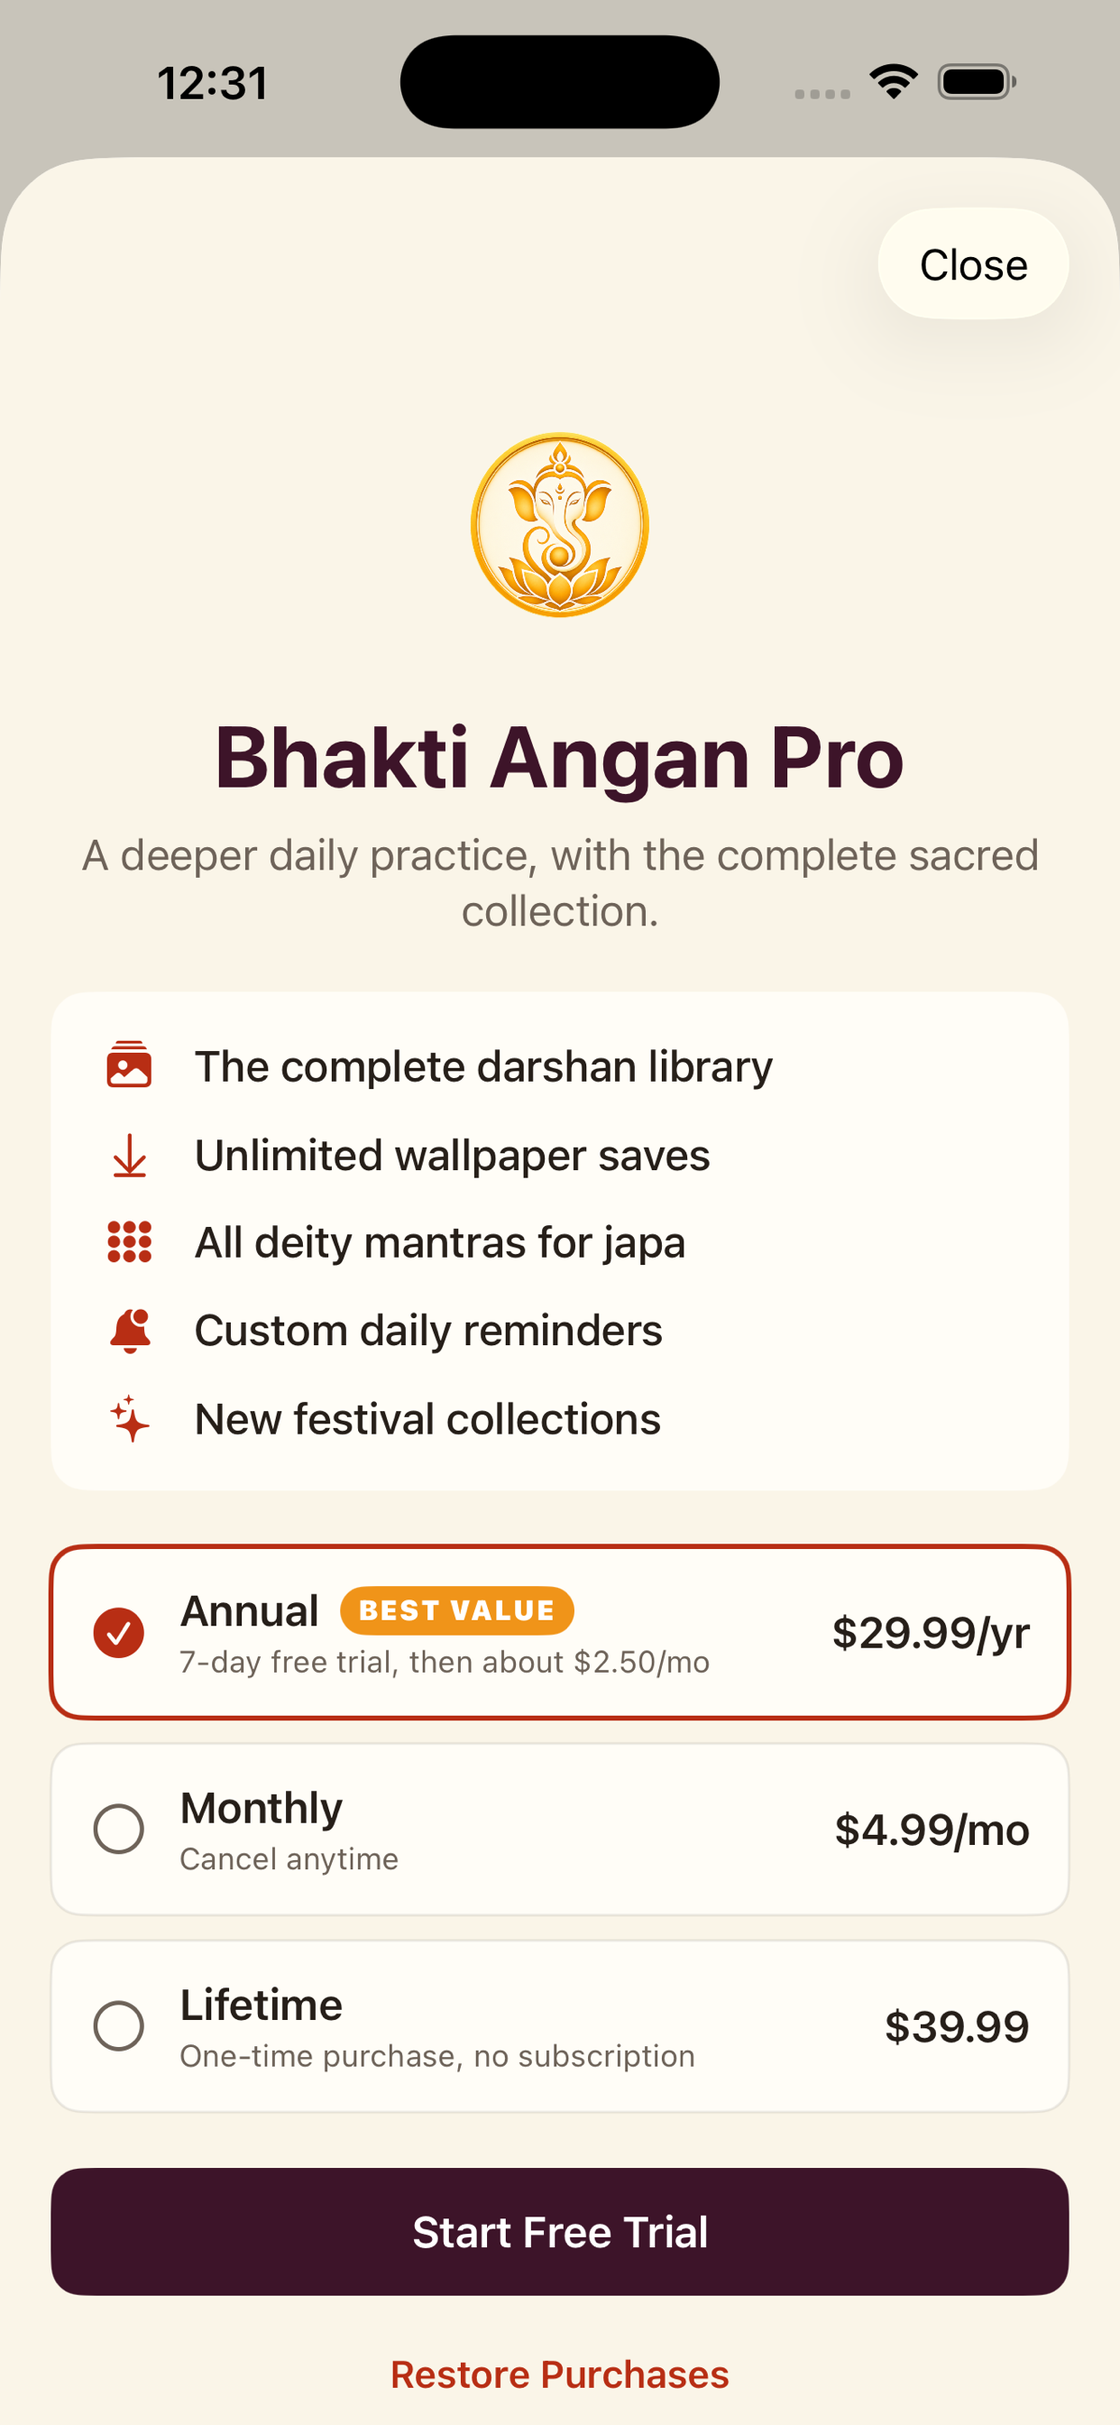
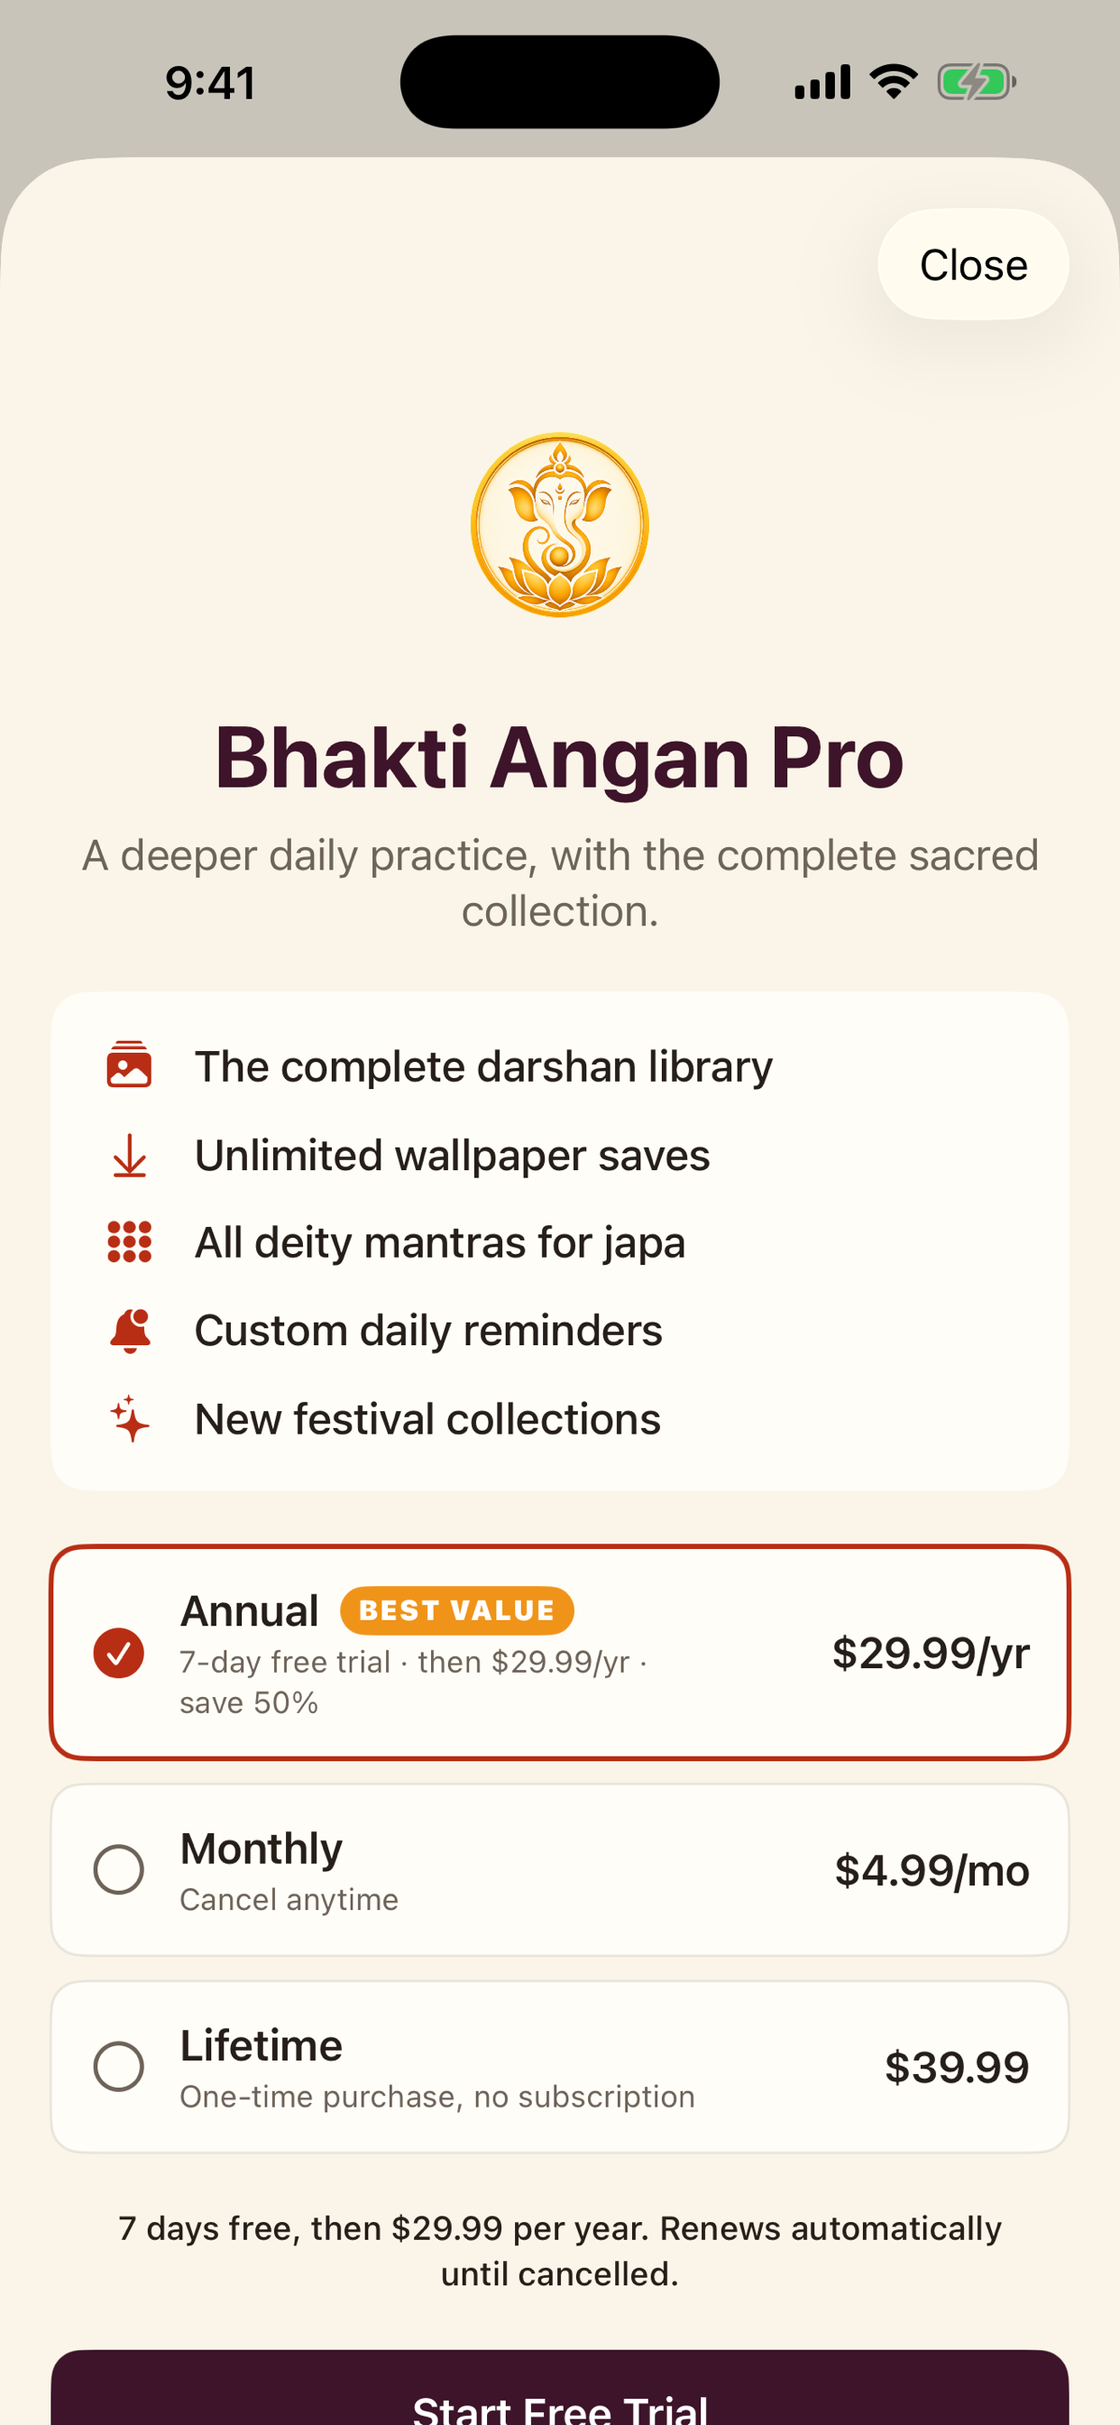
Bhakti Angan v1.0 (build 2): App Store release state
- Paywall: 3.1.2(c) fix - trial length + exact renewal price + auto-renew
  terms shown per selected plan (live StoreKit price, localized)
- New app icon: flame-centered mandala (website brand icon)
- Regenerated paywall screenshots (6.9" + 6.5"); paywall removed from
  listing set, used only as IAP review screenshot
- Docs: RELEASE_v1.1_PLAN.md (v1.1 checklist), runbook screenshot guidance

Approved by App Review 2026-07-02; live at
https://apps.apple.com/app/id6782816559

diff --git a/iPhone/BhaktiAngan/BhaktiAngan/Features/Subscription/PaywallView.swift b/iPhone/BhaktiAngan/BhaktiAngan/Features/Subscription/PaywallView.swift
@@ -41,6 +41,8 @@ struct PaywallView: View {
 
                     productOptions
 
+                    trialTerms
+
                     purchaseButton
 
                     Button(loc.s("Restore Purchases", "खरीद पुनर्स्थापित करें")) {
@@ -127,6 +129,71 @@ struct PaywallView: View {
         .disabled(store.isLoading)
     }
 
+    /// Prominent, plain-language terms shown at the point of purchase for the selected plan:
+    /// trial length (if any), the exact amount billed afterward, and that it auto-renews.
+    /// Required by App Store Guideline 3.1.2(c).
+    private var trialTerms: some View {
+        Text(selectedTermsText)
+            .font(.footnote.weight(.medium))
+            .multilineTextAlignment(.center)
+            .foregroundStyle(AppTheme.ink)
+            .frame(maxWidth: .infinity)
+            .padding(.horizontal, 4)
+    }
+
+    private var selectedTermsText: String {
+        // Prefer the live product so the real storefront price/currency is shown.
+        if let p = selectedProduct {
+            switch p.id {
+            case StoreManager.lifetimeID:
+                return loc.s(
+                    "One-time purchase of \(p.displayPrice). No subscription, no auto-renewal.",
+                    "\(p.displayPrice) की एकमुश्त खरीद। कोई सदस्यता या स्वतः नवीनीकरण नहीं।"
+                )
+            case StoreManager.monthlyID:
+                if let days = store.freeTrialDays(for: p) {
+                    return loc.s(
+                        "\(days) days free, then \(p.displayPrice) per month. Renews automatically until cancelled.",
+                        "\(days) दिन निःशुल्क, फिर \(p.displayPrice) प्रति माह। रद्द करने तक स्वतः नवीनीकृत।"
+                    )
+                }
+                return loc.s(
+                    "\(p.displayPrice) per month. Renews automatically until cancelled.",
+                    "\(p.displayPrice) प्रति माह। रद्द करने तक स्वतः नवीनीकृत।"
+                )
+            default: // annual
+                if let days = store.freeTrialDays(for: p) {
+                    return loc.s(
+                        "\(days) days free, then \(p.displayPrice) per year. Renews automatically until cancelled.",
+                        "\(days) दिन निःशुल्क, फिर \(p.displayPrice) प्रति वर्ष। रद्द करने तक स्वतः नवीनीकृत।"
+                    )
+                }
+                return loc.s(
+                    "\(p.displayPrice) per year. Renews automatically until cancelled.",
+                    "\(p.displayPrice) प्रति वर्ष। रद्द करने तक स्वतः नवीनीकृत।"
+                )
+            }
+        }
+        // Fallback copy when StoreKit products haven't loaded (matches the fallback prices).
+        switch selectedProductID {
+        case StoreManager.lifetimeID:
+            return loc.s(
+                "One-time purchase of $39.99. No subscription, no auto-renewal.",
+                "$39.99 की एकमुश्त खरीद। कोई सदस्यता या स्वतः नवीनीकरण नहीं।"
+            )
+        case StoreManager.monthlyID:
+            return loc.s(
+                "$4.99 per month. Renews automatically until cancelled.",
+                "$4.99 प्रति माह। रद्द करने तक स्वतः नवीनीकृत।"
+            )
+        default:
+            return loc.s(
+                "7 days free, then $29.99 per year. Renews automatically until cancelled.",
+                "7 दिन निःशुल्क, फिर $29.99 प्रति वर्ष। रद्द करने तक स्वतः नवीनीकृत।"
+            )
+        }
+    }
+
     // MARK: - Product options
 
     private var productOptions: some View {
@@ -136,7 +203,7 @@ struct PaywallView: View {
                     id: StoreManager.yearlyID,
                     title: loc.s("Annual", "वार्षिक"),
                     price: "$29.99/yr",
-                    detail: loc.s("7-day free trial, then about $2.50/mo", "7-दिन का निःशुल्क परीक्षण, फिर लगभग $2.50/माह"),
+                    detail: loc.s("7-day free trial, then $29.99/yr", "7-दिन का निःशुल्क परीक्षण, फिर $29.99/वर्ष"),
                     badge: loc.s("BEST VALUE", "सर्वोत्तम")
                 )
                 fallbackOption(
@@ -196,9 +263,7 @@ struct PaywallView: View {
     private func detail(for product: Product) -> String {
         if let days = store.freeTrialDays(for: product) {
             var parts = [loc.s("\(days)-day free trial", "\(days)-दिन का निःशुल्क परीक्षण")]
-            if let perMonth = store.monthlyEquivalentText(for: product) {
-                parts.append(loc.s("then \(perMonth)", "फिर \(perMonth)"))
-            }
+            parts.append(loc.s("then \(price(for: product))", "फिर \(price(for: product))"))
             if let percent = store.annualSavingsPercent {
                 parts.append(loc.s("save \(percent)%", "\(percent)% की बचत"))
             }

diff --git a/iPhone/BhaktiAngan/Docs/RELEASE_v1.1_PLAN.md b/iPhone/BhaktiAngan/Docs/RELEASE_v1.1_PLAN.md
@@ -1,0 +1,190 @@
+# Bhakti Angan — v1.1 (next feature release) plan & checklist
+
+**Status:** parked. v1.0 is **submitted / in App Review**. Do **not** start building
+until v1.0 is **approved** (owner's call, 2026-07-01). This file is the ready-to-go
+checklist for the first feature drop after launch.
+
+**Scope agreed with owner:** all five below go into the next release cycle (they can
+be split across v1.1 / v1.2 by the sequencing at the bottom — voice + festivals are
+the natural v1.2 if we want a faster first drop).
+
+Current app baseline (v1.0): Today, Darshan Library (51 images / 19 deity templates),
+Japa (tap counter), Panchang/Choghadiya (on-device location), Settings, Support,
+Paywall (Pro monthly2 / yearly+trial / lifetime), Onboarding. Bilingual EN/HI.
+Data Not Collected. Models in `BhaktiAngan/Models/DevotionalContent.swift`;
+catalog in `Data/ContentCatalog.swift`; tabs in `App/RootView.swift` (`AppTab`).
+
+---
+
+## 1 · Stories & Katha (port the website content) — highest value, unblocked
+
+The website already has this content written; the app has **no story field at all**
+(darshan detail shows only deity / mantra / meaning / blessing).
+
+**Content sources (reuse, don't rewrite):**
+- 44 **avatar** narratives — `bhaktiangan-site/75-avatar-stories.mjs` (EN) +
+  `78-hi-avatar-stories.mjs` (HI). Fields per item: `name/hi`, `eyebrow`, `story[]`
+  (paragraphs), `meaning`, mantra. Dashavatar + Shiva forms + Devi/Tridevi/Navadurga
+  + 10 Mahavidya + Ganesha/Hanuman.
+- 10 **katha** — `76-hindu-stories.mjs` (EN) + `79-hi-stories.mjs` (HI). Fields:
+  `title/hi`, `eyebrow`, `deity`, `story[]`, `moral`.
+
+**Build tasks:**
+- [ ] Add a `story` model: `struct Story { id, titleEN/HI, eyebrowEN/HI, deity,
+      bodyEN/HI: [String], moralEN/HI, imageName, isPremium }`. Consider an optional
+      `story`/`iconography`/`significance` on `DevotionalItem` too, so a darshan can
+      link to its narrative.
+- [ ] Extraction script: pull EN+HI prose from the four builders into a bundled
+      `stories.json` (single source; no network). Keep Devanagari intact.
+- [ ] New **Katha** tab in `AppTab` + `RootView` (icon `book.closed.fill`,
+      "Katha"/"कथा"), list → detail reader. Match `DarshanDetailView` styling.
+- [ ] Bundle the story hero art (portrait for cards, landscape for reader header) —
+      sources in `bhaktiangan-site/Bhakti_Angan_Story_Images/`.
+- [ ] Pro-gating decision: first N stories free, rest Pro (mirrors darshan model).
+- [ ] Cross-link: darshan detail → "Read the story" when a matching katha exists.
+
+---
+
+## 2 · Daily Darshan widget — best retention feature
+
+- [ ] New **WidgetKit** extension target (app group for shared state:
+      `group.in.bhaktiangan.app`).
+- [ ] Small/medium/large + lock-screen (accessoryRectangular) showing the day's
+      darshan image + deity + short mantra. `TimelineProvider` rolling at midnight.
+- [ ] Tap → deep-link into the app's Today screen.
+- [ ] Free (drives daily opens); do not gate.
+
+---
+
+## 3 · Panchang / Choghadiya widget (owner-requested)
+
+Widget that keeps showing the **current muhurat/choghadiya**, location-selectable.
+
+> **PLATFORM LIMITATION — flag before building (per standing rule):** an iOS widget
+> **cannot** contain a free-form, in-tile location *search/picker*. Widgets are
+> timeline-driven; interactivity is limited to Buttons/Toggles (App Intents, iOS 17+).
+> Two viable patterns:
+> - **(A) Widget configuration (recommended):** user long-presses the widget →
+>   **Edit Widget** → picks a city from an **AppIntent configuration** list (fed by
+>   our `Data/Cities.swift`). This is the native "per-widget location" and supports
+>   multiple widgets on different cities.
+> - **(B) Follow the app's location:** widget mirrors the location set inside the app
+>   (simplest; one shared city via the app group).
+> Recommend **A** (matches the "select location in the widget" intent as closely as
+> iOS allows), with **B** as the default before configuration.
+
+- [ ] Reuse `Services/Panchang.swift` + `Astronomy.swift` in the extension (share the
+      sources with the widget target — no duplicate engine).
+- [ ] `TimelineProvider` with entries at each choghadiya boundary so the tile always
+      shows the *current* period + time remaining + next period.
+- [ ] `AppIntentConfiguration` city picker from `Cities.swift`.
+- [ ] Small = current choghadiya + ends-at; medium = current + next 2–3.
+
+---
+
+## 4 · Voice Japa — flagship USP (plan: `Docs/VOICE_JAPA.md`)
+
+- [ ] Hands-free on-device chant counting (JapaView is tap-only today).
+- [ ] `NSMicrophoneUsageDescription` + on-device detection (keep Data Not Collected —
+      **no audio leaves the device**; document for App Review).
+- [ ] Lead Pro feature; needs **real-device tuning** (sensitivity/false counts).
+- [ ] Higher review scrutiny (mic) → keep the privacy note explicit.
+
+---
+
+## 5 · Festival collections — recurring-revenue cadence
+
+- [ ] Festival pack data model (Janmashtami, Navratri, Diwali, Maha Shivratri,
+      Ganesh Chaturthi): themed darshan sets with date windows.
+- [ ] Timed Pro drops surfaced on Today + Paywall (copy already promises
+      "New festival collections" in `PaywallView`/`SettingsView`).
+- [ ] Doubles as social content moments.
+
+---
+
+## 6 · Remote content pipeline — images without builds (owner-approved 2026-07-01)
+
+One-time build work; afterwards adding/replacing/removing darshan images never
+requires a release. Apple allows downloading *content* (not code) — standard.
+
+- [ ] Manifest JSON hosted on bhaktiangan.com (e.g. `/app/catalog.json`), fetched
+      on launch + daily. Entries: id, image URL, deityEN/HI, mantraEN/HI,
+      meaningEN/HI, blessingEN/HI, category, `isPremium`, optional festival window.
+- [ ] **`replaces`**: manifest entry with a bundled image's id + remote URL → app
+      prefers the remote version (corrected-iconography swaps without a build).
+      Versioned filenames (`-v2`) for cache-busting.
+- [ ] **`removed`**: remote kill-switch mirroring `ContentCatalog.removedImageNames`
+      — pull a reported image same-day, before corrected art exists.
+- [ ] Background download + on-device cache (offline-first: bundled 51 remain the
+      base; no network = bundled + cached still work).
+- [ ] Keep requests bare GETs (no device IDs, no analytics) → **App Privacy stays
+      "Data Not Collected"**.
+- [ ] Publisher script in `bhaktiangan-site/` (wp.mjs) — one command: upload image(s),
+      regenerate + upload catalog.json. Iconography pre-publish check per
+      `IMAGE_REVIEW.md` becomes the only quality gate (no App Review speed bump).
+- [ ] Festival packs (#5) ride this: a pack = manifest entries with a date window,
+      prepared early, appears on time — never race App Review before a festival.
+
+## 7 · Library / Gallery redesign — elite, curated, interlinked (owner, 2026-07-01)
+
+Owner verdict: the current in-app gallery isn't good enough — "more robust and
+elite." Direction:
+
+- [ ] **Proper categories**: replace the flat grid + chip filter with a curated,
+      sectioned library (per deity with cover art; collections as rows/shelves,
+      editorial covers, Cormorant/serif headers — match the website's elite look).
+- [ ] **Avatar collections**: introduce the finalized avatar image sets (Dashavatar,
+      Shiva forms, Devi/Navadurga, Mahavidya…) as first-class categories — same art
+      direction as the website avatar pages (44 heroes already exist for web; app
+      versions once finalized).
+- [ ] **Internal linking**: darshan detail → its avatar page / story (Stories tab,
+      #1) when one exists; avatar/story pages → their darshan images. One connected
+      content graph, not three silos.
+- [ ] Depends on #1 (stories in-app) + benefits from #6 (categories/collections can
+      grow remotely).
+
+## 8 · Deep devotional content — verses, shlokas, beginner stories (owner, 2026-07-01)
+
+Owner: website stories are brief/high-level; someone who knows *nothing* about
+Krishna needs more. App (and later web) should carry real depth:
+
+- [ ] **Shlokas & verses** per deity/story: Devanagari + transliteration + EN/HI
+      meaning (public-domain sources — Gita, Puranas; aligns with the earlier
+      "Sacred Library / Bhagavad Gita" v1.2 idea).
+- [ ] **Long-form beginner stories**: assume zero background — who the deity is,
+      the full narrative arc (childhood, key episodes, why it matters), glossary
+      of terms (avatar, lila, darshan…), written in chapters/sections rather than
+      the website's 4-6 paragraph summaries.
+- [ ] Author once, publish twice: the long-form content should also feed the
+      website story pages later ("Read the full story" expansions) — single
+      content source, app + web.
+- [ ] Bilingual EN/HI like everything else; native-speaker review before ship.
+- [ ] Candidate structure: per-deity "journey" (intro → stories → shlokas →
+      mantras → darshan gallery) — ties #1, #7, and this together.
+
+## Audio (music / aarti) — asset-blocked, not code-blocked
+
+`Services/AudioManager.swift` is scaffolded; it only shows the music UI once a
+bundled track exists (`ambient_darshan.m4a`, see `Docs/BACKGROUND_MUSIC.md`).
+Per-deity aarti/bhajan (`ROADMAP.md` item 6) also needs **licensed audio**. Land
+these whenever the tracks are sourced — no engine work required first.
+
+---
+
+## Suggested sequencing
+
+- **v1.1 (content + retention, low review risk):** #6 Remote content pipeline
+  (foundation — do first so everything after grows without builds), #1 Stories &
+  Katha, #7 Library/Gallery redesign, #2 Daily Darshan widget, #3 Panchang widget.
+- **v1.2 (native + monetization + depth):** #4 Voice Japa, #5 Festival collections
+  (data rides #6), #8 deep content (shlokas + long-form beginner stories — content
+  authoring can start anytime, it's writing work not build work).
+- **Anytime the assets arrive:** background music + aarti audio.
+
+## Open decisions to confirm at build time
+- Panchang widget location model: **A (widget configuration)** vs B (follow app).
+- Stories Pro-gating threshold (how many free).
+- Whether avatar narratives attach to darshan detail, live only in the Katha tab, or both.
+- Gallery redesign: shelf/collection layout vs per-deity hub pages (mock both).
+- Deep content (#8): start with which deity (Krishna suggested — owner's example)
+  and which shloka sources first.

diff --git a/iPhone/BhaktiAngan/Docs/SUBMISSION_RUNBOOK.md b/iPhone/BhaktiAngan/Docs/SUBMISSION_RUNBOOK.md
@@ -92,9 +92,14 @@ App Store Connect → your app → **iOS App → 1.0 → (the version page)**
 Version page → **Previews and Screenshots → iPhone 6.9"**. Upload from
 `Docs/Screenshots/v1/` (all are 1320 × 2868):
 
-`01-today` → `03-japa` → `02-darshan` → `05-paywall` → `06-today-dark` → `04-settings`
+`01-today` → `03-japa` → `02-darshan` → `06-today-dark` → `04-settings`
 
 (6.9" is the only required size; ASC scales it down for other devices. Captions optional.)
+
+> **Do NOT put the paywall (`05-paywall`) on the product page.** IAP/subscription
+> screenshots don't belong in the listing — they sell nothing and can read as
+> paywall-forward. `05-paywall.png` is used only as the **review screenshot on each
+> IAP** (Pro Monthly, Pro Annual, and Pro Lifetime) — see §2.
 
 ---
 
